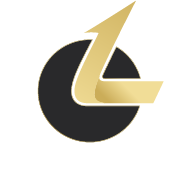
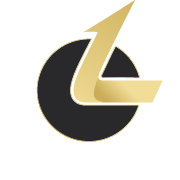
LR-937: обновил главную иконку

diff --git a/src/@components/@icons/LorderLogo.tsx b/src/@components/@icons/LorderLogo.tsx
@@ -5,57 +5,63 @@ import SvgIcon from '@material-ui/core/SvgIcon';
 export default function LorderLogo(props) {
   return (
     <SvgIcon {...props} viewBox="0 0 48 48">
-      <title>Lorder</title>
       <defs>
-        <linearGradient id="linear-gradient" x1="40.89" y1="16.25" x2="29.47" y2="27.67" gradientUnits="userSpaceOnUse">
+        <linearGradient
+          id="linear-gradient"
+          x1="40.89"
+          y1="33.73"
+          x2="29.44"
+          y2="22.28"
+          gradientTransform="matrix(1, 0, 0, -1, 0, 50)"
+          gradientUnits="userSpaceOnUse"
+        >
           <stop offset="0.63" stopColor="#f1dd97" />
           <stop offset="1" stopColor="#cbad59" />
         </linearGradient>
         <linearGradient
           id="linear-gradient-2"
           x1="17.92"
-          y1="30.08"
+          y1="19.92"
           x2="38.65"
-          y2="-5.82"
+          y2="55.82"
+          gradientTransform="matrix(1, 0, 0, -1, 0, 50)"
           gradientUnits="userSpaceOnUse"
         >
           <stop offset="0" stopColor="#f1dd97" />
           <stop offset="1" stopColor="#cbad59" />
         </linearGradient>
-        <linearGradient id="linear-gradient-3" x1="34.9" y1="15.66" x2="28.4" y2="22.16" xlinkHref="#linear-gradient" />
+        <linearGradient id="linear-gradient-3" x1="34.9" y1="34.34" x2="28.4" y2="27.84" xlinkHref="#linear-gradient" />
         <linearGradient
           id="linear-gradient-4"
-          x1="30.98"
-          y1="16.81"
-          x2="13.83"
-          y2="33.96"
+          x1="30.96"
+          y1="33.21"
+          x2="13.81"
+          y2="16.06"
           xlinkHref="#linear-gradient"
         />
       </defs>
-      <title>48x48</title>
+      <title>Lorder Logo</title>
       <path
         fill="url(#linear-gradient)"
-        fillRule="evenodd"
-        d="M43.3,21.6H28c-1.71,0-2-.54-1.83-1.44h0a15.27,15.27,0,0,0-1.3,5c.06,1.54,1.22,2,2.74,2.17h13Z"
+        d="M43.3,21.62H28c-1.71,0-2-.54-1.83-1.44h0a15.56,15.56,0,0,0-1.37,5c.06,1.54,1.21,2.06,2.81,2.17h13Z"
       />
       <path
         fill="url(#linear-gradient-2)"
-        fillRule="evenodd"
-        d="M27.62,27.36H22.93c-3.17,0-3.83-2.33-3.11-5.06.94-3.54,4.61-10.16,6.22-13.68a10.35,10.35,0,0,0-3.85,0C27.43,5.53,35.89.07,35.89.07s-6.18,12-9.19,18.71a8.46,8.46,0,0,0-.52,1.38,15.33,15.33,0,0,0-1.3,5C24.94,26.73,26.1,27.16,27.62,27.36Z"
+        d="M27.62,27.36H22.93c-3.17,0-3.83-2.33-3.11-5.06.94-3.54,4.61-10.16,6.22-13.68a10.38,10.38,0,0,0-3.85,0C27.43,5.53,35.89.07,35.89.07s-6.18,12-9.19,18.71a35,35,0,0,0-1.82,6.38C24.94,26.73,26.1,27.16,27.62,27.36Z"
       />
       <path
         fill="#29292b"
-        strokeMiterlimit={10}
-        strokeWidth="0.25px"
         stroke="url(#linear-gradient-3)"
-        d="M33.5,14.44a13.74,13.74,0,0,0-2.76-2.11c-1.13,2.26-2.25,4.53-3.27,6.77A7.74,7.74,0,0,0,27,20.34h0a.33.33,0,0,0,.27.41,4.67,4.67,0,0,0,.81.06h9.09a13.44,13.44,0,0,0-.68-2A13.77,13.77,0,0,0,33.5,14.44Z"
+        strokeMiterlimit={10}
+        strokeWidth="0.25px"
+        d="M33.5,14.44a13.47,13.47,0,0,0-2.76-2.11c-1.13,2.26-3.62,7.58-3.74,8h0a.32.32,0,0,0,.24.4h0c.27,0,9.9.06,9.9.06a13.09,13.09,0,0,0-.68-2A13.66,13.66,0,0,0,33.5,14.44Z"
       />
       <path
         fill="#29292b"
+        stroke="url(#linear-gradient-4)"
         strokeMiterlimit={10}
         strokeWidth="0.25px"
-        stroke="url(#linear-gradient-4)"
-        d="M27.68,28.14H22.92a4.07,4.07,0,0,1-3.42-1.41c-.84-1.08-1-2.67-.5-4.61.58-2.59,2.61-6.5,4.41-10l.89-1.73h-.63a13.85,13.85,0,0,0-5.4,1.08A13.57,13.57,0,0,0,13.85,33.8a14,14,0,0,0,15.23,2.93,13.83,13.83,0,0,0,7.4-7.28c.18-.43.34-.87.48-1.31Z"
+        d="M22.92,28.14a4.17,4.17,0,0,1-3.42-1.41c-.84-1.08-1-2.67-.5-4.61.58-2.59,2.61-6.5,4.41-10l.89-1.73h-.63a13.74,13.74,0,0,0-5.4,1.08A13.57,13.57,0,0,0,13.85,33.8a14,14,0,0,0,15.23,2.93,13.8,13.8,0,0,0,7.4-7.28c.18-.43.34-.87.48-1.31Z"
       />
     </SvgIcon>
   );
